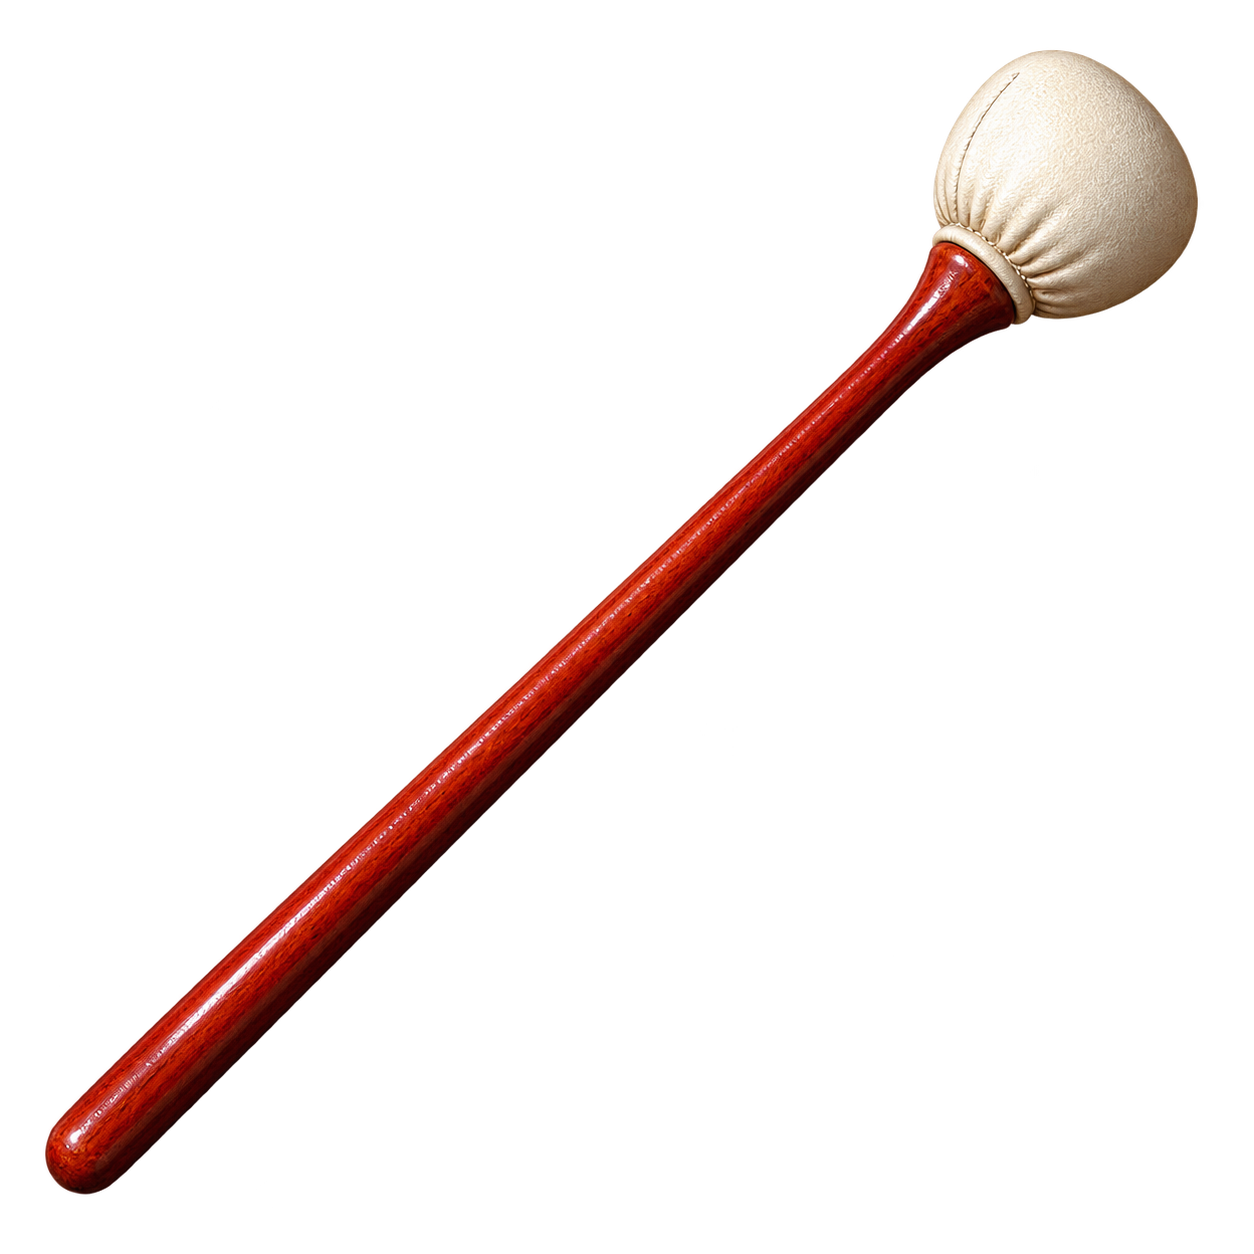
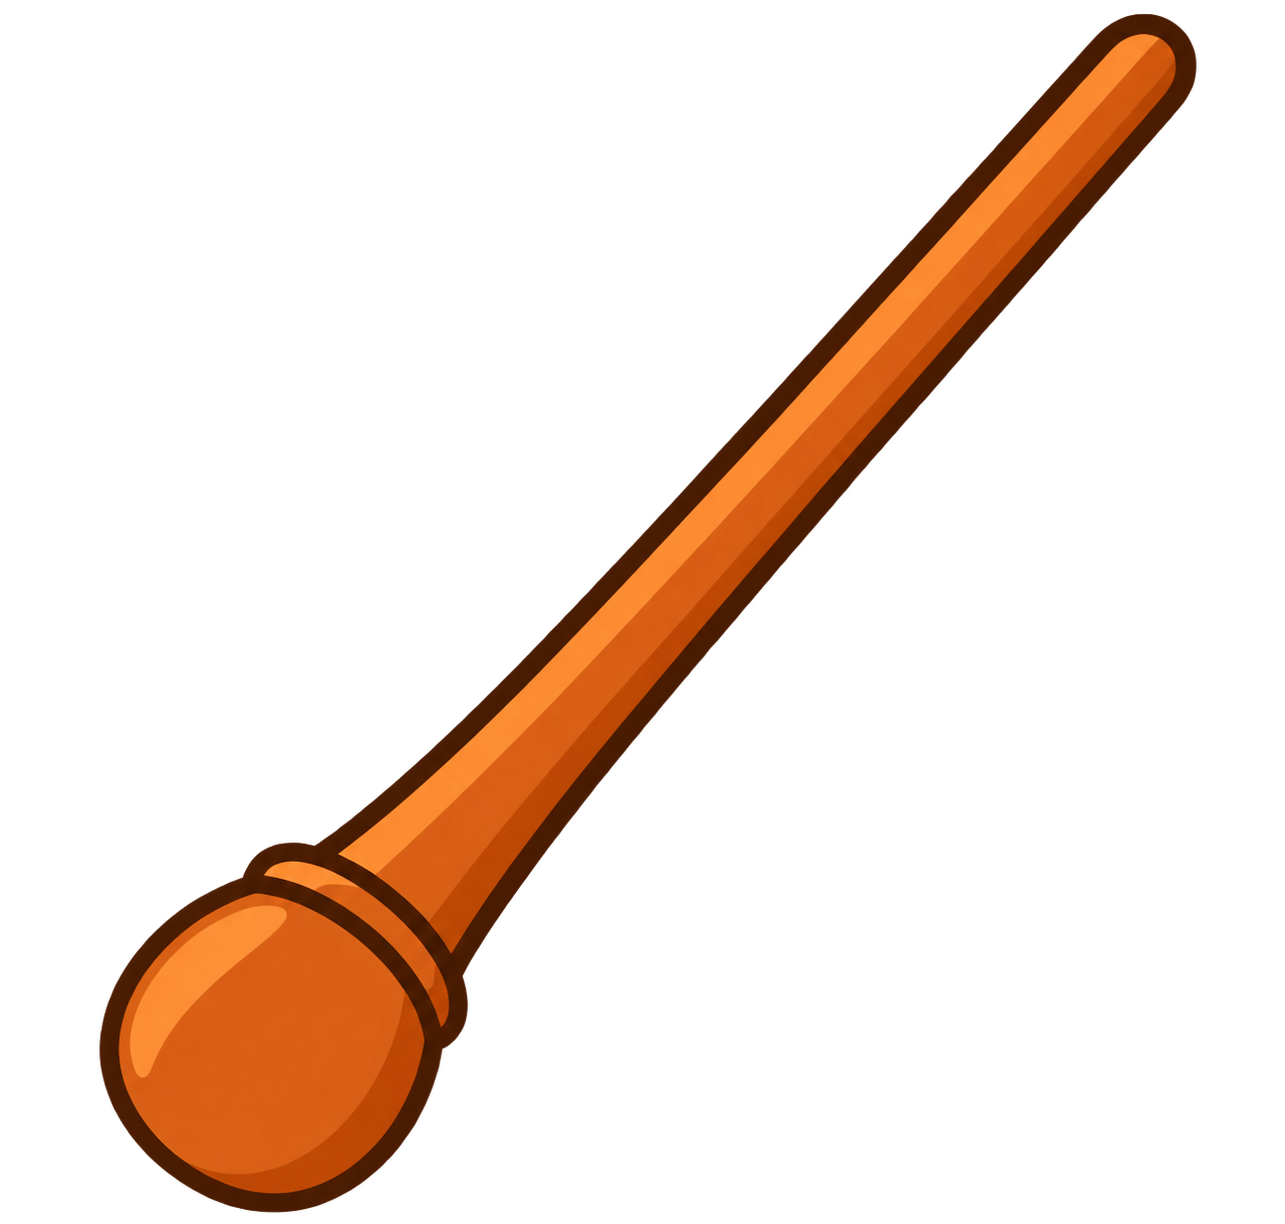
try(widget): 调整敲木鱼美术与官方封面背景（组件验证通过，待实机验证） / Adjust wooden fish art and official cover background (widget checks passed, runtime validation pending)
中文：
- 将写实木鱼和木槌替换为图片生成的扁平电子木鱼美术，并将槌头对准开口右上侧的实心受击面。
- 以 SnowDesktop_SteamAssets/source/key_art_portrait.png 建立官方社区封面的仓库内标准背景，修正规范并重新生成木鱼封面。
- 将组件版本提升至 1.0.1；参考 ElectronFish 等开源 HTML 项目的简洁轮廓和按压反馈方向，未复制其 SVG 路径或代码。

English:
- Replace the realistic wooden fish and mallet with image-generated flat electronic wooden-fish art, and align the mallet head with the solid upper-right striking surface beside the slit.
- Add a repository-standard official community cover background from SnowDesktop_SteamAssets/source/key_art_portrait.png, correct the repository rule, and regenerate the wooden-fish cover.
- Bump the component to 1.0.1; use the simple silhouette and press-feedback direction of open-source HTML projects such as ElectronFish as reference without copying their SVG paths or code.

验证 / Validation:
- snowwidget validate developer_assets/workshop_widgets/wooden-fish（5 个文件通过 / 5 files passed）
- snowwidget quality developer_assets/workshop_widgets/wooden-fish（校验与 lint 通过，0 个警告 / validation and lint passed with 0 warnings）
- snowwidget preview（2×2 glass-light、2×2 glass-dark、3×3 glass-light 均已生成并目检 / generated and visually inspected）
- snowwidget pack（wooden-fish-1.0.1.snowwidget，SHA-256 3ba76827fdad119d78b09effdc5d77631cba221fbc7e27bc4ddb9dd0eeb58fe9）
- snowwidget test（组件未提供 tests 目录，未执行测试用例 / package has no tests directory, so no test cases ran）

限制 / Limitations:
- 未在 SnowDesktop 桌面宿主中验证实际点击、按压动画和不同桌面布局；仍需用户实机验证。
[…]

Changed region(s): [[0.0311, 0.0, 0.9641, 0.9935]]

diff --git a/AGENTS.md b/AGENTS.md
@@ -205,11 +205,13 @@
   官方社区组件源码；它们不是内置组件，不得放入 `widgets/`，也不得随应用发行包复制。只有用户
   明确要求将社区组件提升为内置组件时，才允许迁入 `widgets/` 并同步更新内置组件契约测试。
 - 官方社区组件的清单预览统一命名为 `workshop-preview.png`。生成封面时必须使用
-  `developer_assets/workshop_widgets/audio-spectrum/workshop-preview.png` 所采用的同款 Windows 11
-  蓝色花瓣背景原图 `C:\Windows\Web\Wallpaper\Windows\img0.jpg`；不得把已经叠有音频波形的成品
-  预览当作背景二次合成，也不得自行替换其他壁纸。使用组件真实跨度，并通过
-  `snowwidget preview ... --appearance glass-light --background C:\Windows\Web\Wallpaper\Windows\img0.jpg --canvas-size 512 --padding 48`
-  生成 512×512 封面，目检后再写入清单和打包。
+  `developer_assets/workshop_widgets/community-preview-background.png` 作为背景；该文件是 Steam 商店美术
+  源文件 `SnowDesktop_SteamAssets/source/key_art_portrait.png` 的仓库内标准副本。不得改用商店页
+  `page_bg_raw.jpg`、Windows 系统壁纸或其他图片，不得把已经叠有组件内容的成品预览当作背景，也不得
+  为单个组件另换背景。使用组件真实跨度，并通过
+  `snowwidget preview ... --appearance glass-light --background developer_assets/workshop_widgets/community-preview-background.png --canvas-size 512 --padding 48`
+  生成 512×512 封面，目检后再写入清单和打包；若源美术更新，应先从上述源文件同步替换这份标准
+  副本，再重生成所有官方社区组件封面。
 - `widgets/` 同时包含内置 Lua 组件与面向用户提供的
   `snowdesktop-lua-widget` Agent Skill；后者是产品的组件开发功能，必须继续随软件分发，
   不得当作临时 Agent 文件删除。
